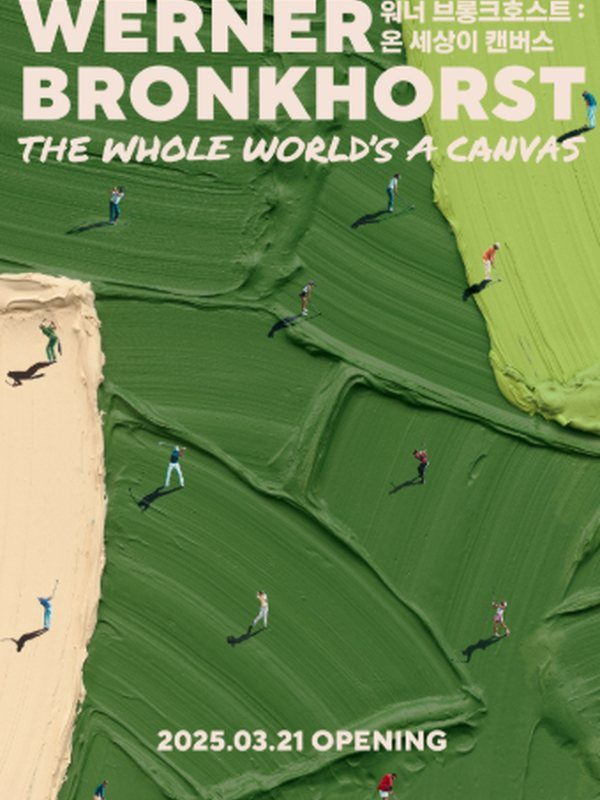
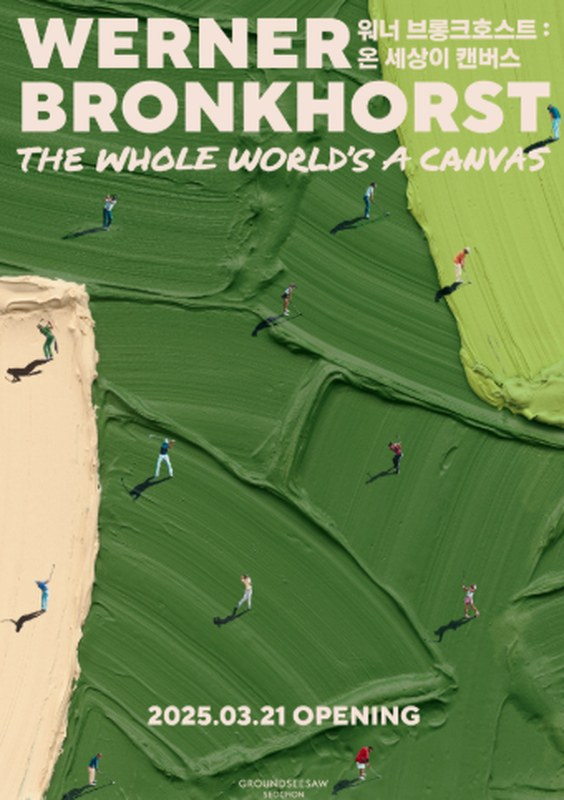
메인 포스터 15장 원본 비율로 재생성(위아래 글씨 잘림 해소), 포스터 뒤 배경판·그림자 제거

diff --git a/p/unipromotion-v2/index.html b/p/unipromotion-v2/index.html
@@ -13011,6 +13011,11 @@ html body #uni-poster-gallery .uni-theme-md-img-box { height: auto !important; w
 html body #uni-poster-gallery .uni-theme-md-img-box img { width: auto !important; height: auto !important; max-width: 100% !important; max-height: 100% !important; object-fit: contain !important; border-radius: 6px; box-shadow: 0 6px 18px rgba(0,0,0,.10); }
 @media (max-width: 1024px) { html body #uni-poster-gallery .uni-slider-track > .uni-theme-md-process-card { flex-basis: calc((100% - 32px) / 3) !important; } }
 @media (max-width: 767px) { html body #uni-poster-gallery .uni-slider-track { gap: 12px !important; } html body #uni-poster-gallery .uni-slider-track > .uni-theme-md-process-card { flex-basis: calc((100% - 12px) / 2) !important; } }
+
+/* 포스터 배경판 제거 (10/13) */
+html body #uni-poster-gallery .uni-theme-md-process-card { box-shadow: none !important; background: transparent !important; border: 0 !important; border-radius: 0 !important; }
+html body #uni-poster-gallery .uni-theme-md-process-card::before, html body #uni-poster-gallery .uni-theme-md-process-card::after { display: none !important; content: none !important; }
+html body #uni-poster-gallery .uni-theme-md-img-box img { box-shadow: none !important; border-radius: 6px; }
 </style>
 <style id="uni-fix-1013">
 /* 하단 CTA와 푸터 사이 빈 섹션(흰 줄) 숨김 (아임웹: 섹션 삭제) */
